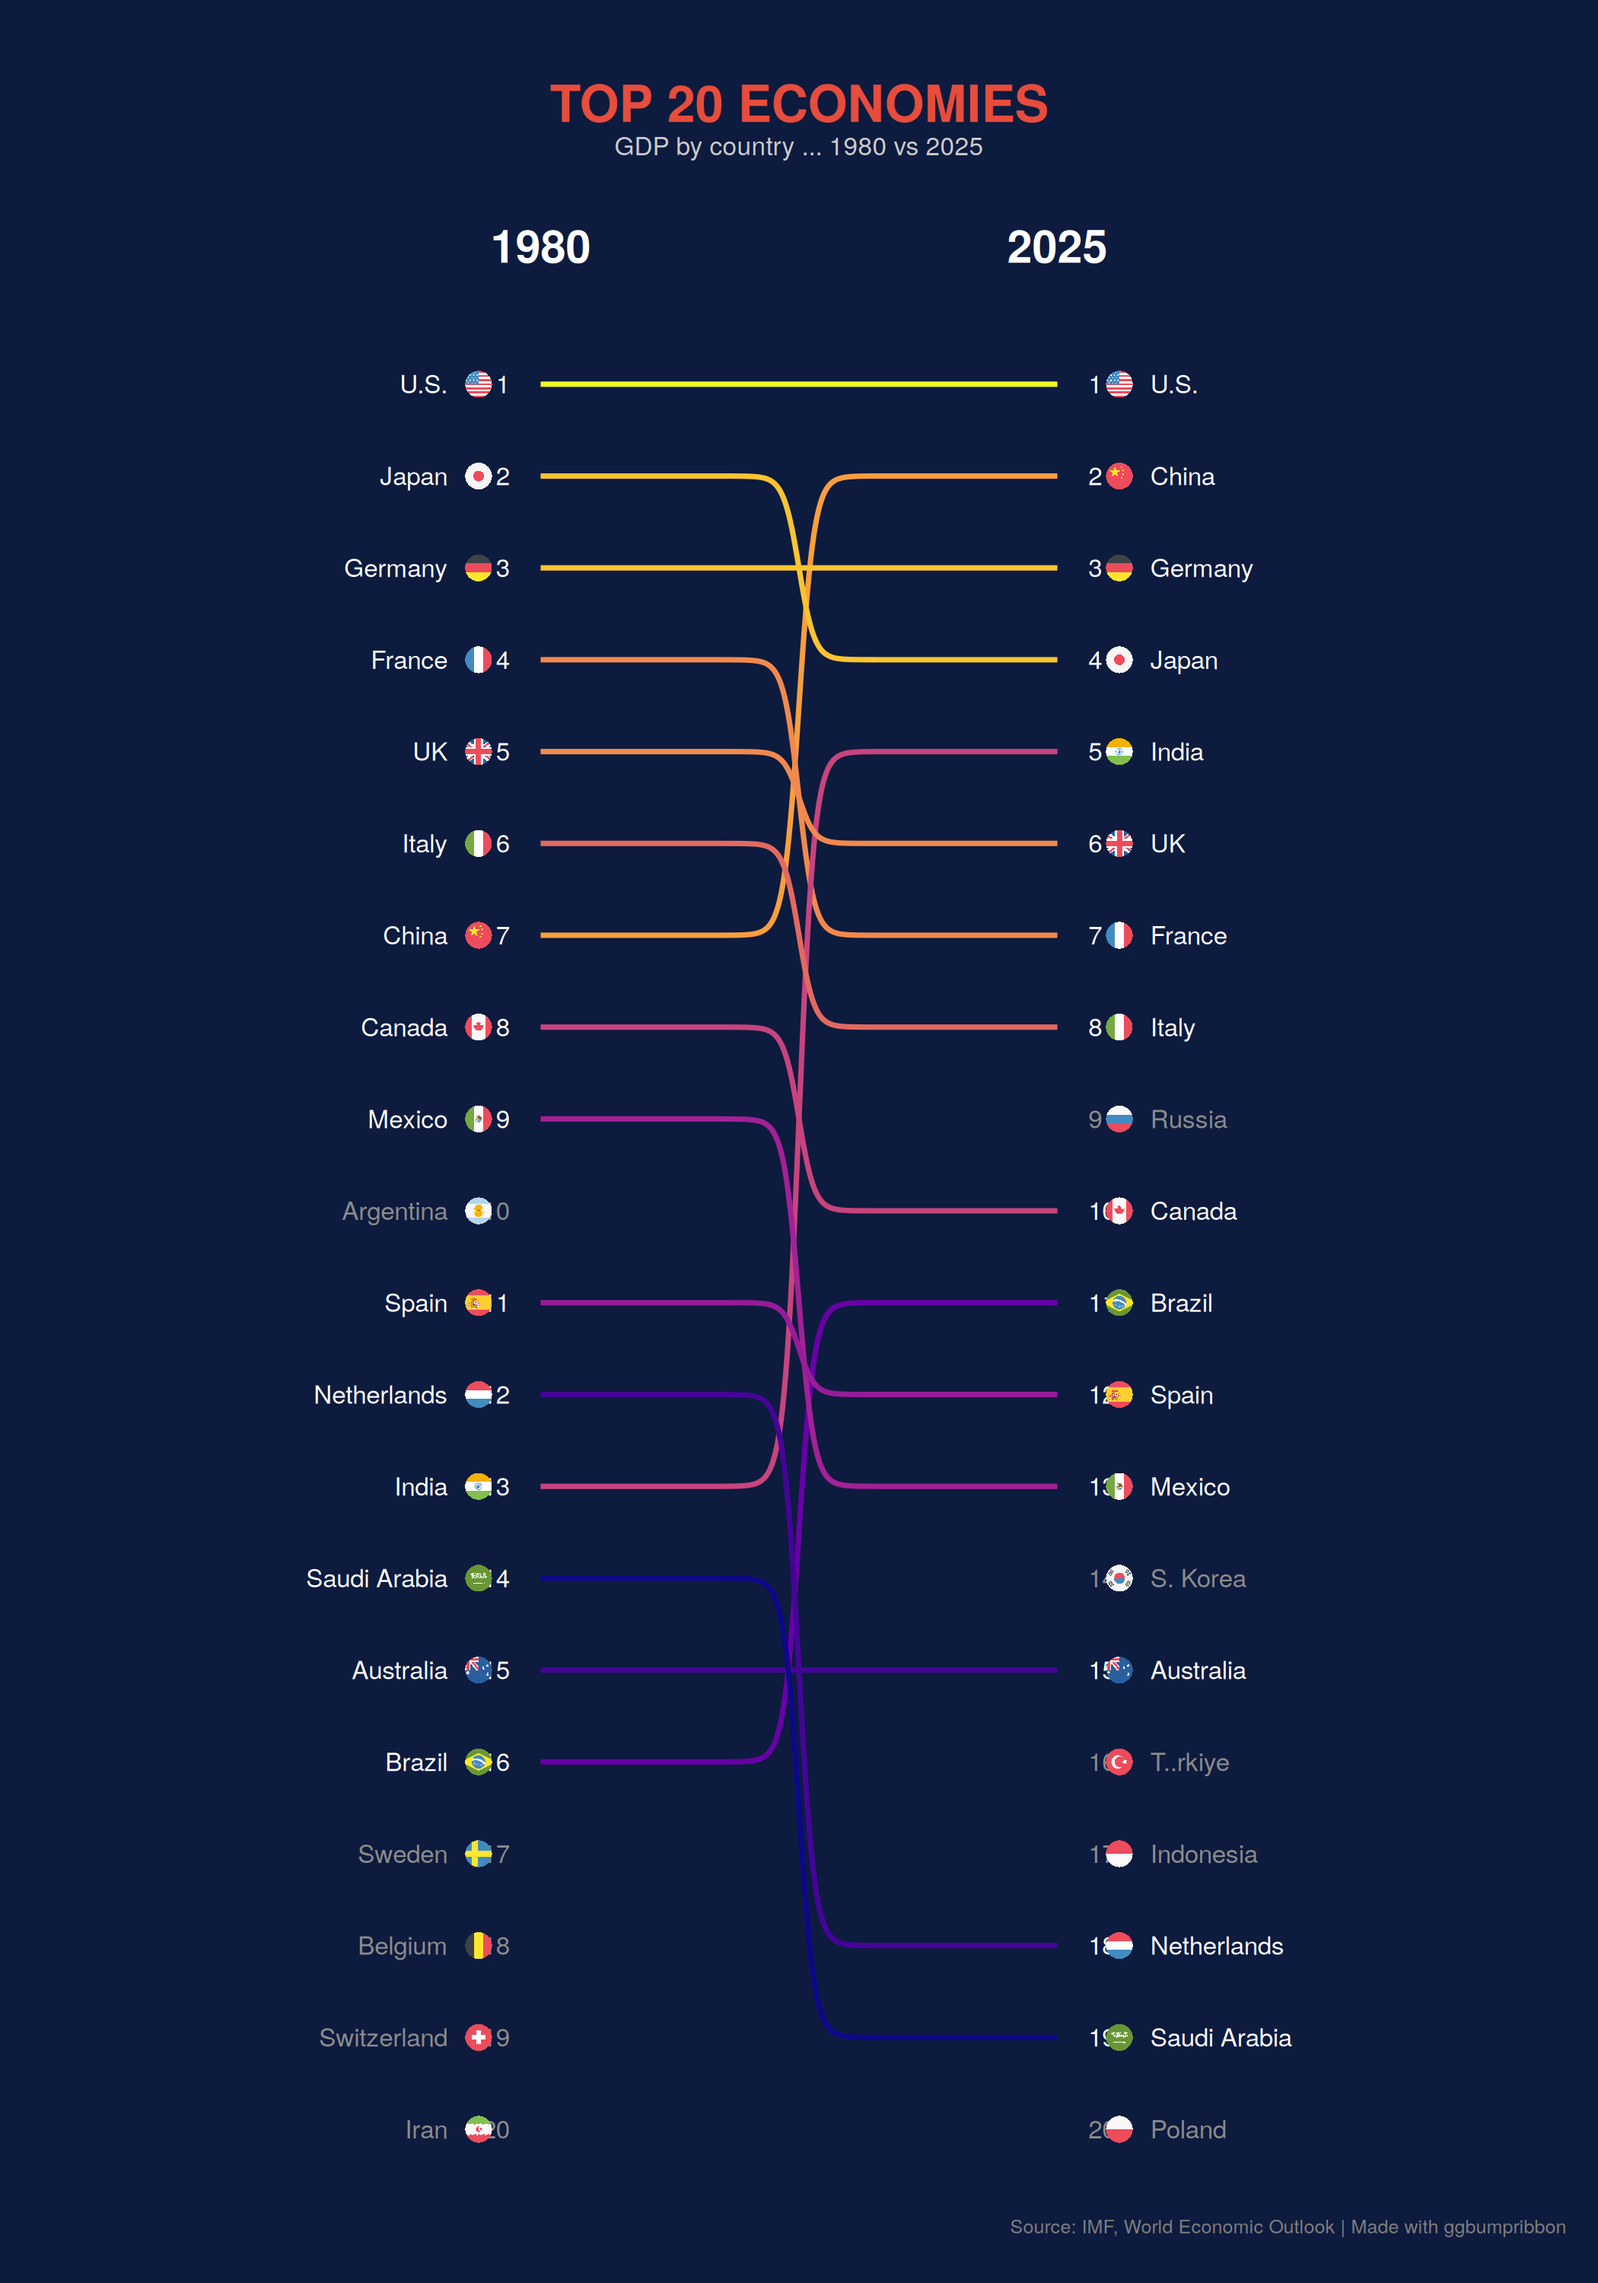
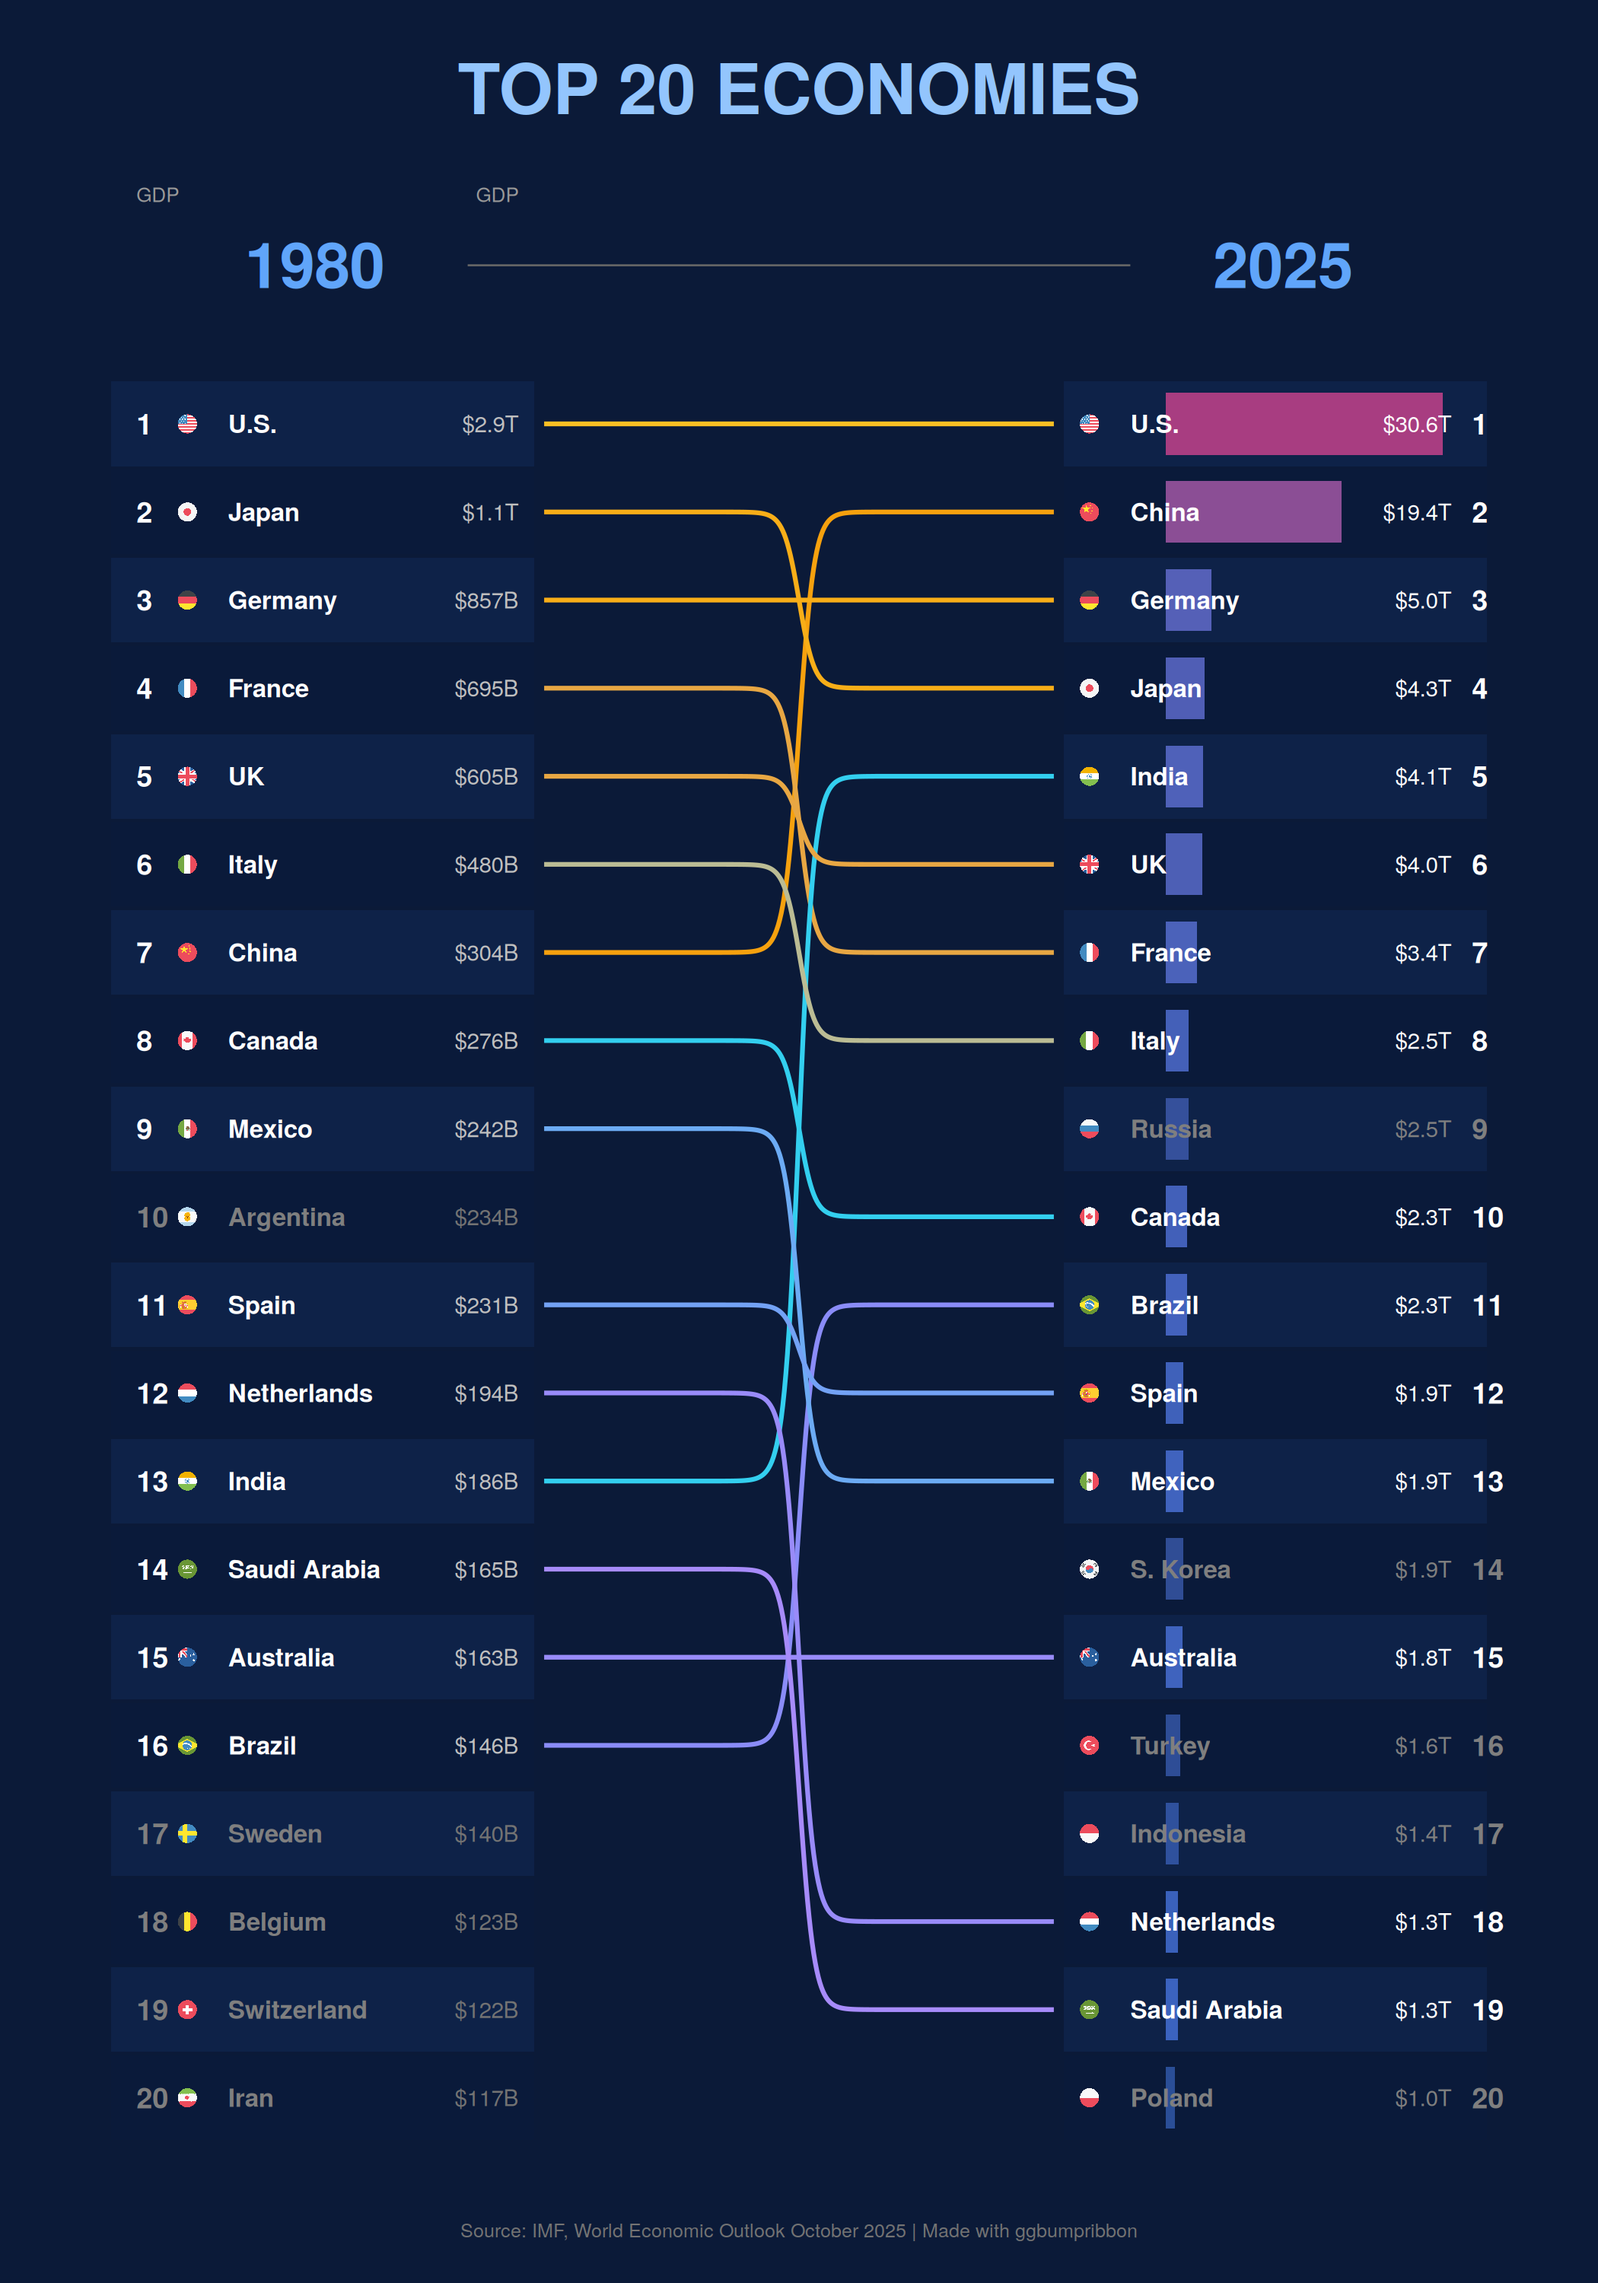
Full GDP reproduction with row shading, GDP bars, and proper layout
- Alternating row backgrounds (dark navy stripes)
- GDP bar segments on right column (blue→pink proportional to GDP)
- Column layout: rank | flag | name | GDP value (properly spaced)
- 3-bend exit-channel-enter sigmoid lines
- Yellow→cyan→purple line colour gradient
- Blue year headers with connecting rule
- Full code in collapsible README block

diff --git a/README.md b/README.md
@@ -125,23 +125,27 @@ library(ggbumpribbon)
 library(ggflags)
 library(countrycode)
 
-# countries in both top-20 lists get lines
 both <- data.frame(stringsAsFactors = FALSE,
   country   = c("U.S.","Japan","Germany","France","UK","Italy","China","Canada",
                 "Mexico","Spain","Netherlands","India","Saudi Arabia","Australia","Brazil"),
   rank_from = c(1,2,3,4,5,6,7,8,9,11,12,13,14,15,16),
-  rank_to   = c(1,4,3,7,6,8,2,10,13,12,18,5,19,15,11)
+  rank_to   = c(1,4,3,7,6,8,2,10,13,12,18,5,19,15,11),
+  gdp_1980  = c(2.9,1.1,0.857,0.695,0.605,0.480,0.304,0.276,
+                0.242,0.231,0.194,0.186,0.165,0.163,0.146),
+  gdp_2025  = c(30.6,4.3,5.0,3.4,4.0,2.5,19.4,2.3,1.9,1.9,1.3,4.1,1.3,1.8,2.3)
 )
 
 exit_only <- data.frame(stringsAsFactors = FALSE,
   country   = c("Argentina","Sweden","Belgium","Switzerland","Iran"),
-  rank_from = c(10, 17, 18, 19, 20))
+  rank_from = c(10,17,18,19,20),
+  gdp_1980  = c(0.234,0.140,0.123,0.122,0.117))
 
 enter_only <- data.frame(stringsAsFactors = FALSE,
-  country   = c("Russia","S. Korea","Türkiye","Indonesia","Poland"),
-  rank_to   = c(9, 14, 16, 17, 20))
+  country   = c("Russia","S. Korea","Turkey","Indonesia","Poland"),
+  rank_to   = c(9,14,16,17,20),
+  gdp_2025  = c(2.5,1.9,1.6,1.4,1.0))
 
-ov <- c("U.S."="us","UK"="gb","S. Korea"="kr","Türkiye"="tr","UAE"="ae")
+ov <- c("U.S."="us","UK"="gb","S. Korea"="kr","Turkey"="tr")
 iso <- function(x) ifelse(x %in% names(ov), ov[x],
   tolower(countrycode(x, "country.name", "iso2c", warn = FALSE)))
 
@@ -149,7 +153,7 @@ both$iso2       <- iso(both$country)
 exit_only$iso2  <- iso(exit_only$country)
 enter_only$iso2 <- iso(enter_only$country)
 
-# 4 x-values per group → 3-bend "exit–channel–enter" pattern
+# 4 x-values → 3-bend "exit–channel–enter" pattern
 both_long <- data.frame(
   x       = rep(c(1, 1.35, 1.65, 2), each = nrow(both)),
   y       = c(both$rank_from, both$rank_from, both$rank_to, both$rank_to),
@@ -161,49 +165,113 @@ both_long <- data.frame(
 lbl_l <- both_long[both_long$x == 1, ]
 lbl_r <- both_long[both_long$x == 2, ]
 
-ggplot(both_long, aes(x, y, group = group, colour = after_stat(avg_y))) +
-  geom_bump_line(linewidth = 0.8, smooth = 10) +
-  scale_colour_viridis_c(option = "C", direction = -1, guide = "none") +
+fmt_gdp <- function(x) ifelse(x >= 1,
+  paste0("$", formatC(x, format = "f", digits = 1), "T"),
+  paste0("$", round(x * 1000), "B"))
+
+both$gdp_l_label     <- fmt_gdp(both$gdp_1980)
+both$gdp_r_label     <- fmt_gdp(both$gdp_2025)
+exit_only$gdp_label  <- fmt_gdp(exit_only$gdp_1980)
+enter_only$gdp_label <- fmt_gdp(enter_only$gdp_2025)
+
+gdp_max   <- 31
+bar_left  <- 2.22
+bar_width <- 0.55
+bars_r <- data.frame(y = both$rank_to, xmin = bar_left,
+  xmax = bar_left + bar_width * (both$gdp_2025 / gdp_max), gdp = both$gdp_2025)
+bars_enter <- data.frame(y = enter_only$rank_to, xmin = bar_left,
+  xmax = bar_left + bar_width * (enter_only$gdp_2025 / gdp_max), gdp = enter_only$gdp_2025)
+
+row_bg_l <- data.frame(y = 1:20, xmin = 0.15, xmax = 0.98,
+  fill = ifelse(1:20 %% 2 == 0, "#0a1a3a", "#0e2248"))
+row_bg_r <- data.frame(y = 1:20, xmin = 2.02, xmax = 2.85,
+  fill = ifelse(1:20 %% 2 == 0, "#0a1a3a", "#0e2248"))
+
+bg <- "#0b1a38"
+
+ggplot() +
+  # alternating row backgrounds
+  geom_rect(data = row_bg_l,
+    aes(xmin = xmin, xmax = xmax, ymin = y - 0.48, ymax = y + 0.48),
+    fill = row_bg_l$fill, colour = NA) +
+  geom_rect(data = row_bg_r,
+    aes(xmin = xmin, xmax = xmax, ymin = y - 0.48, ymax = y + 0.48),
+    fill = row_bg_r$fill, colour = NA) +
+  # GDP bar segments (blue→pink gradient proportional to GDP)
+  geom_rect(data = bars_r,
+    aes(xmin = xmin, xmax = xmax, ymin = y - 0.35, ymax = y + 0.35),
+    fill = scales::seq_gradient_pal("#3b82f6", "#ec4899")(bars_r$gdp / gdp_max),
+    colour = NA, alpha = 0.7) +
+  geom_rect(data = bars_enter,
+    aes(xmin = xmin, xmax = xmax, ymin = y - 0.35, ymax = y + 0.35),
+    fill = scales::seq_gradient_pal("#3b82f6", "#ec4899")(bars_enter$gdp / gdp_max),
+    colour = NA, alpha = 0.5) +
+  # 3-bend sigmoid lines
+  geom_bump_line(data = both_long,
+    aes(x = x, y = y, group = group, colour = after_stat(avg_y)),
+    linewidth = 0.7, smooth = 10) +
+  scale_colour_gradientn(
+    colours = c("#fbbf24","#f59e0b","#22d3ee","#818cf8","#a78bfa"),
+    guide = "none") +
   scale_y_reverse(expand = expansion(mult = c(0.03, 0.03))) +
-  scale_x_continuous(limits = c(0.15, 2.85)) +
-  # left labels
-  geom_text(data = lbl_l, aes(x = 0.94, y = y, label = y),
-            inherit.aes = FALSE, hjust = 1, colour = "white", size = 2.8) +
-  geom_flag(data = lbl_l, aes(x = 0.88, y = y, country = iso2),
-            inherit.aes = FALSE, size = 3.5) +
-  geom_text(data = lbl_l, aes(x = 0.82, y = y, label = country),
-            inherit.aes = FALSE, hjust = 1, colour = "white", size = 2.8) +
-  # right labels
-  geom_text(data = lbl_r, aes(x = 2.06, y = y, label = y),
-            inherit.aes = FALSE, hjust = 0, colour = "white", size = 2.8) +
-  geom_flag(data = lbl_r, aes(x = 2.12, y = y, country = iso2),
-            inherit.aes = FALSE, size = 3.5) +
-  geom_text(data = lbl_r, aes(x = 2.18, y = y, label = country),
-            inherit.aes = FALSE, hjust = 0, colour = "white", size = 2.8) +
+  scale_x_continuous(limits = c(0.12, 2.88)) +
+  # left: rank + flag + name + GDP
+  geom_text(data = lbl_l, aes(x = 0.20, y = y, label = y),
+    inherit.aes = FALSE, hjust = 0, colour = "white", size = 3.2, fontface = "bold") +
+  geom_flag(data = lbl_l, aes(x = 0.30, y = y, country = iso2),
+    inherit.aes = FALSE, size = 2.5) +
+  geom_text(data = lbl_l, aes(x = 0.38, y = y, label = country),
+    inherit.aes = FALSE, hjust = 0, colour = "white", size = 2.8, fontface = "bold") +
+  geom_text(data = both, aes(x = 0.95, y = rank_from, label = gdp_l_label),
+    inherit.aes = FALSE, hjust = 1, colour = "grey75", size = 2.5) +
+  # right: flag + name + GDP + rank
+  geom_flag(data = lbl_r, aes(x = 2.07, y = y, country = iso2),
+    inherit.aes = FALSE, size = 2.5) +
+  geom_text(data = lbl_r, aes(x = 2.15, y = y, label = country),
+    inherit.aes = FALSE, hjust = 0, colour = "white", size = 2.8, fontface = "bold") +
+  geom_text(data = both, aes(x = 2.78, y = rank_to, label = gdp_r_label),
+    inherit.aes = FALSE, hjust = 1, colour = "white", size = 2.5) +
+  geom_text(data = lbl_r, aes(x = 2.82, y = y, label = y),
+    inherit.aes = FALSE, hjust = 0, colour = "white", size = 3.2, fontface = "bold") +
   # exit only (grey left)
-  geom_text(data = exit_only, aes(x = 0.94, y = rank_from, label = rank_from),
-            inherit.aes = FALSE, hjust = 1, colour = "grey55", size = 2.8) +
-  geom_flag(data = exit_only, aes(x = 0.88, y = rank_from, country = iso2),
-            inherit.aes = FALSE, size = 3.5) +
-  geom_text(data = exit_only, aes(x = 0.82, y = rank_from, label = country),
-            inherit.aes = FALSE, hjust = 1, colour = "grey55", size = 2.8) +
+  geom_text(data = exit_only, aes(x = 0.20, y = rank_from, label = rank_from),
+    inherit.aes = FALSE, hjust = 0, colour = "grey50", size = 3.2, fontface = "bold") +
+  geom_flag(data = exit_only, aes(x = 0.30, y = rank_from, country = iso2),
+    inherit.aes = FALSE, size = 2.5) +
+  geom_text(data = exit_only, aes(x = 0.38, y = rank_from, label = country),
+    inherit.aes = FALSE, hjust = 0, colour = "grey50", size = 2.8, fontface = "bold") +
+  geom_text(data = exit_only, aes(x = 0.95, y = rank_from, label = gdp_label),
+    inherit.aes = FALSE, hjust = 1, colour = "grey45", size = 2.5) +
   # enter only (grey right)
-  geom_text(data = enter_only, aes(x = 2.06, y = rank_to, label = rank_to),
-            inherit.aes = FALSE, hjust = 0, colour = "grey55", size = 2.8) +
-  geom_flag(data = enter_only, aes(x = 2.12, y = rank_to, country = iso2),
-            inherit.aes = FALSE, size = 3.5) +
-  geom_text(data = enter_only, aes(x = 2.18, y = rank_to, label = country),
-            inherit.aes = FALSE, hjust = 0, colour = "grey55", size = 2.8) +
-  annotate("text", x = 1, y = -0.5, label = "1980",
-           colour = "white", size = 5, fontface = "bold") +
-  annotate("text", x = 2, y = -0.5, label = "2025",
-           colour = "white", size = 5, fontface = "bold") +
+  geom_flag(data = enter_only, aes(x = 2.07, y = rank_to, country = iso2),
+    inherit.aes = FALSE, size = 2.5) +
+  geom_text(data = enter_only, aes(x = 2.15, y = rank_to, label = country),
+    inherit.aes = FALSE, hjust = 0, colour = "grey50", size = 2.8, fontface = "bold") +
+  geom_text(data = enter_only, aes(x = 2.78, y = rank_to, label = gdp_label),
+    inherit.aes = FALSE, hjust = 1, colour = "grey50", size = 2.5) +
+  geom_text(data = enter_only, aes(x = 2.82, y = rank_to, label = rank_to),
+    inherit.aes = FALSE, hjust = 0, colour = "grey50", size = 3.2, fontface = "bold") +
+  # column headers
+  annotate("text", x = 0.55, y = -0.8, label = "1980",
+    colour = "#60a5fa", size = 7, fontface = "bold") +
+  annotate("text", x = 2.45, y = -0.8, label = "2025",
+    colour = "#60a5fa", size = 7, fontface = "bold") +
+  annotate("segment", x = 0.85, xend = 2.15, y = -0.8, yend = -0.8,
+    colour = "grey40", linewidth = 0.3) +
   labs(
-    title    = "TOP 20 ECONOMIES",
-    subtitle = "GDP by country — 1980 vs 2025",
-    caption  = "Source: IMF, World Economic Outlook | Made with ggbumpribbon"
+    title   = "TOP 20 ECONOMIES",
+    caption = "Source: IMF, World Economic Outlook October 2025 | Made with ggbumpribbon"
   ) +
-  theme_bump(bg = "#0d1b3e")
+  theme_void() +
+  theme(
+    plot.background  = element_rect(fill = bg, colour = NA),
+    panel.background = element_rect(fill = bg, colour = NA),
+    plot.title       = element_text(colour = "#93c5fd", size = 22, face = "bold",
+                                    hjust = 0.5, margin = margin(t = 12, b = 2)),
+    plot.caption     = element_text(colour = "grey45", size = 6,
+                                    hjust = 0.5, margin = margin(t = 8, b = 5)),
+    plot.margin      = margin(8, 8, 8, 8)
+  )
 ```
 
 </details>
